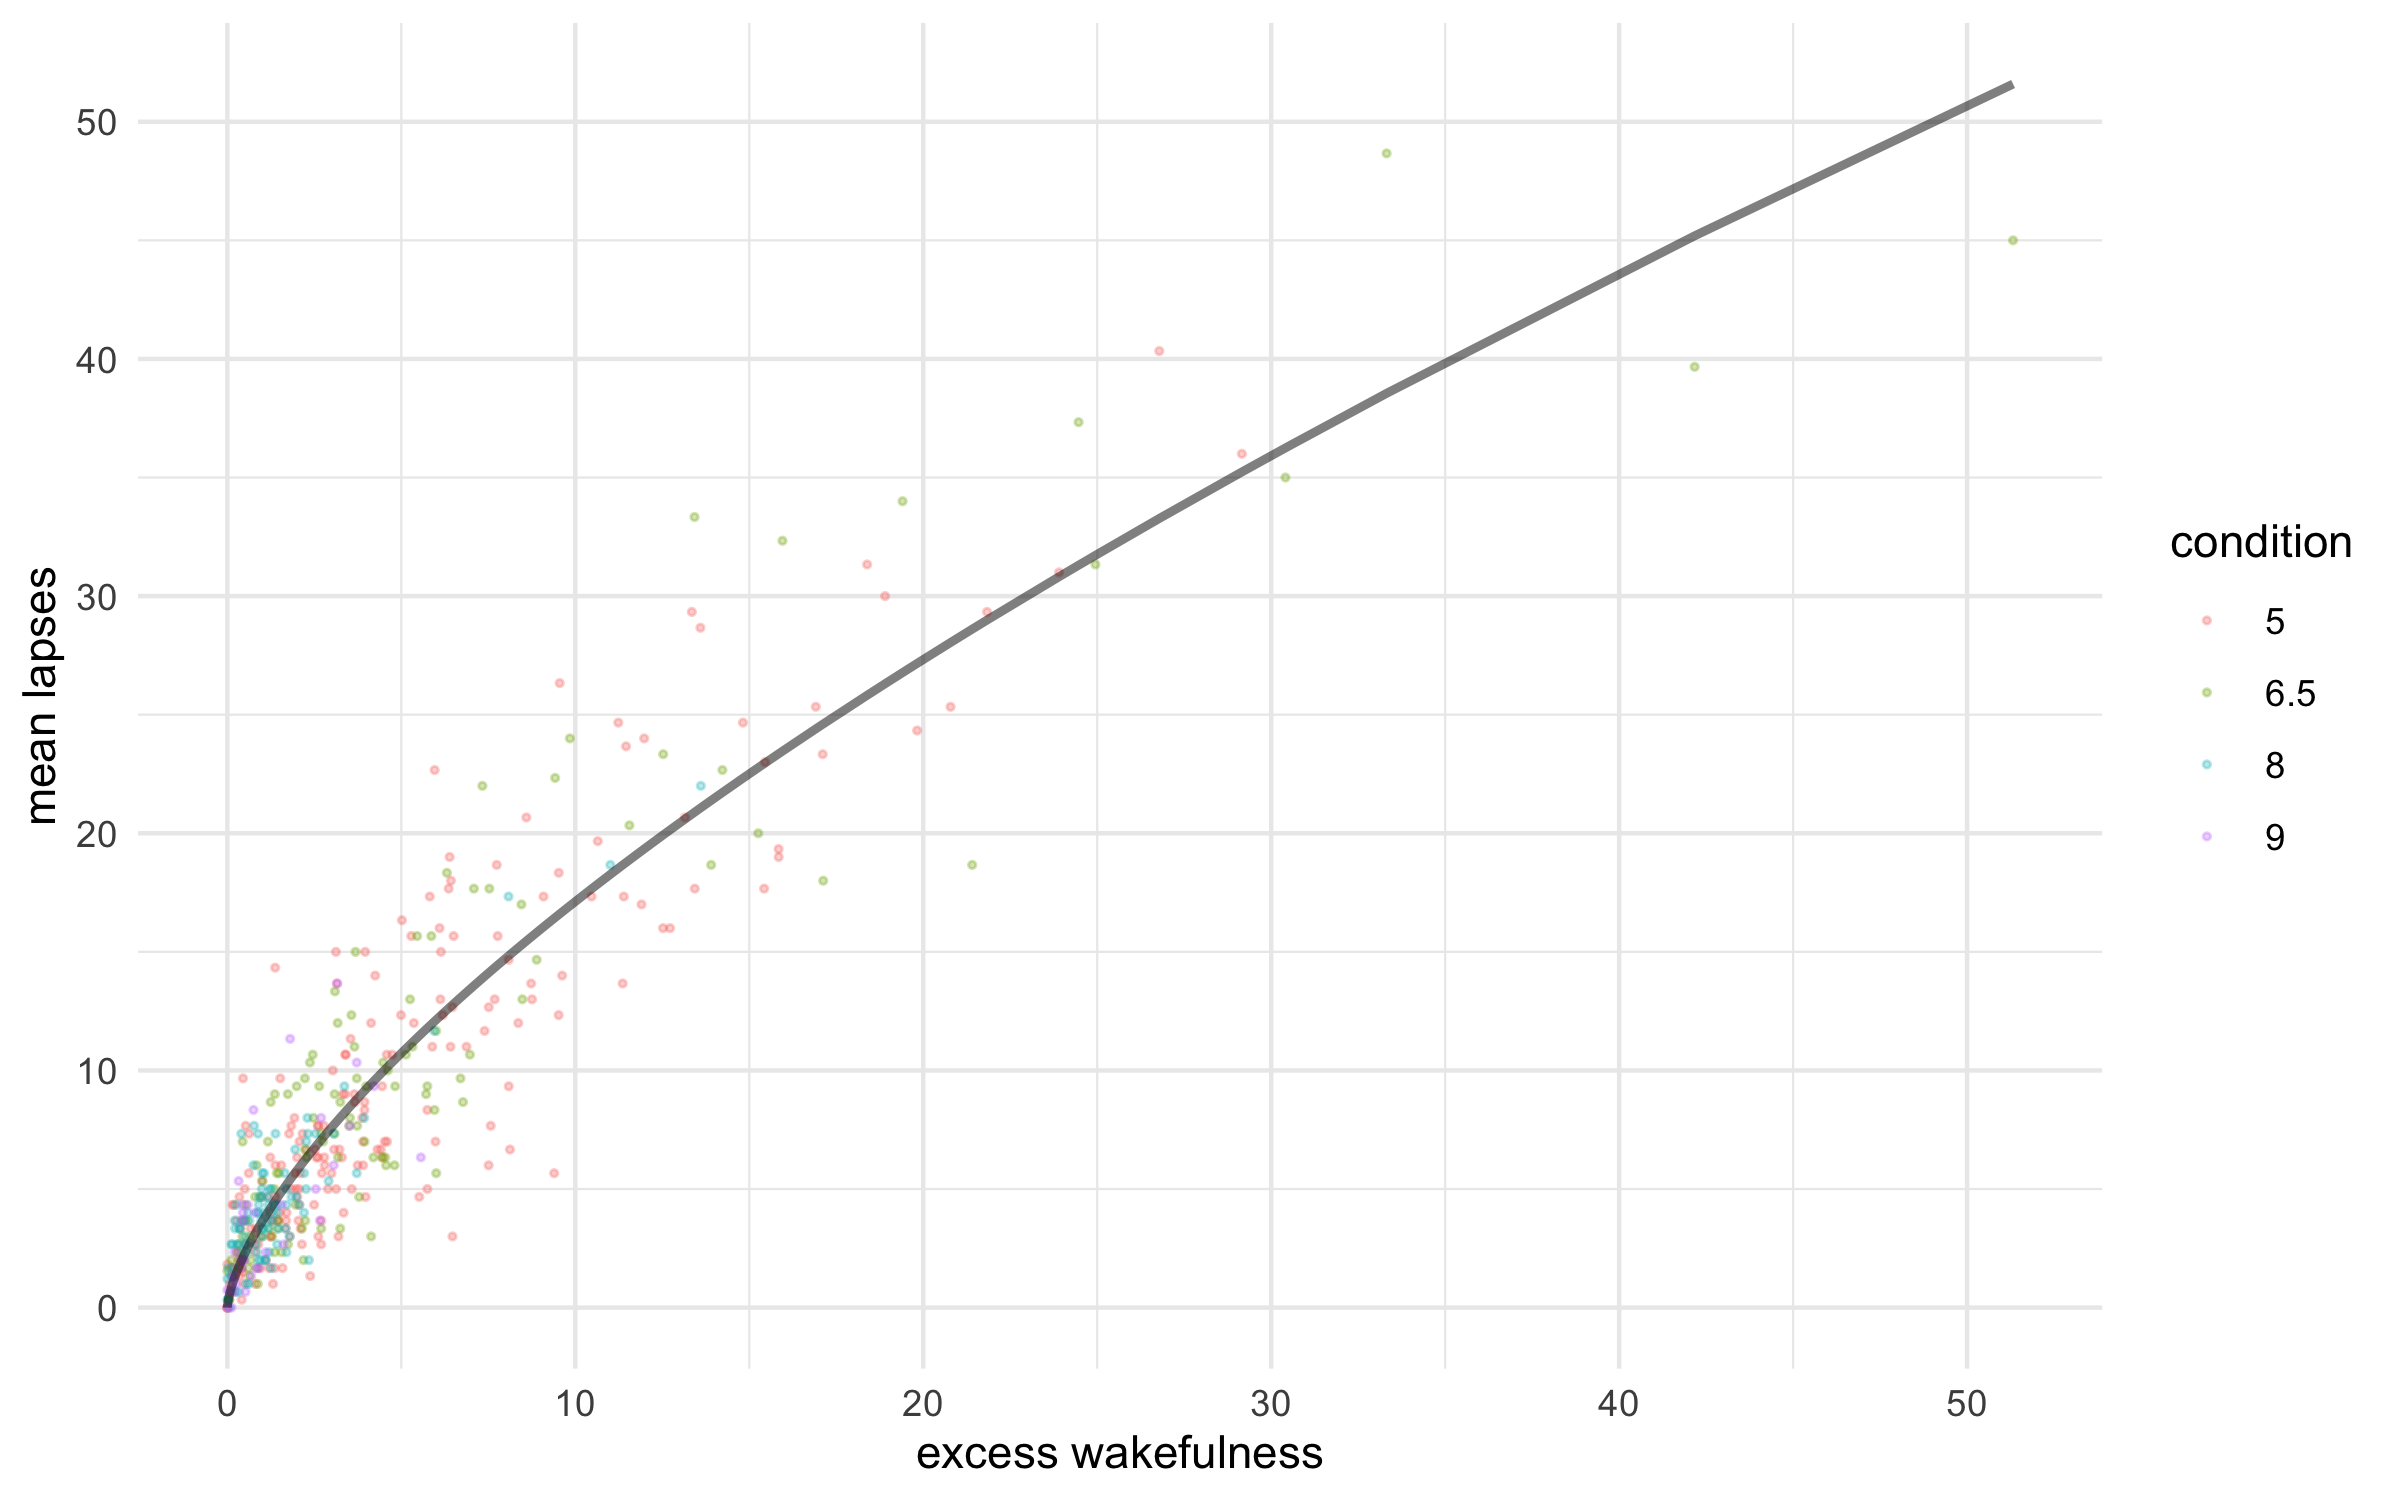
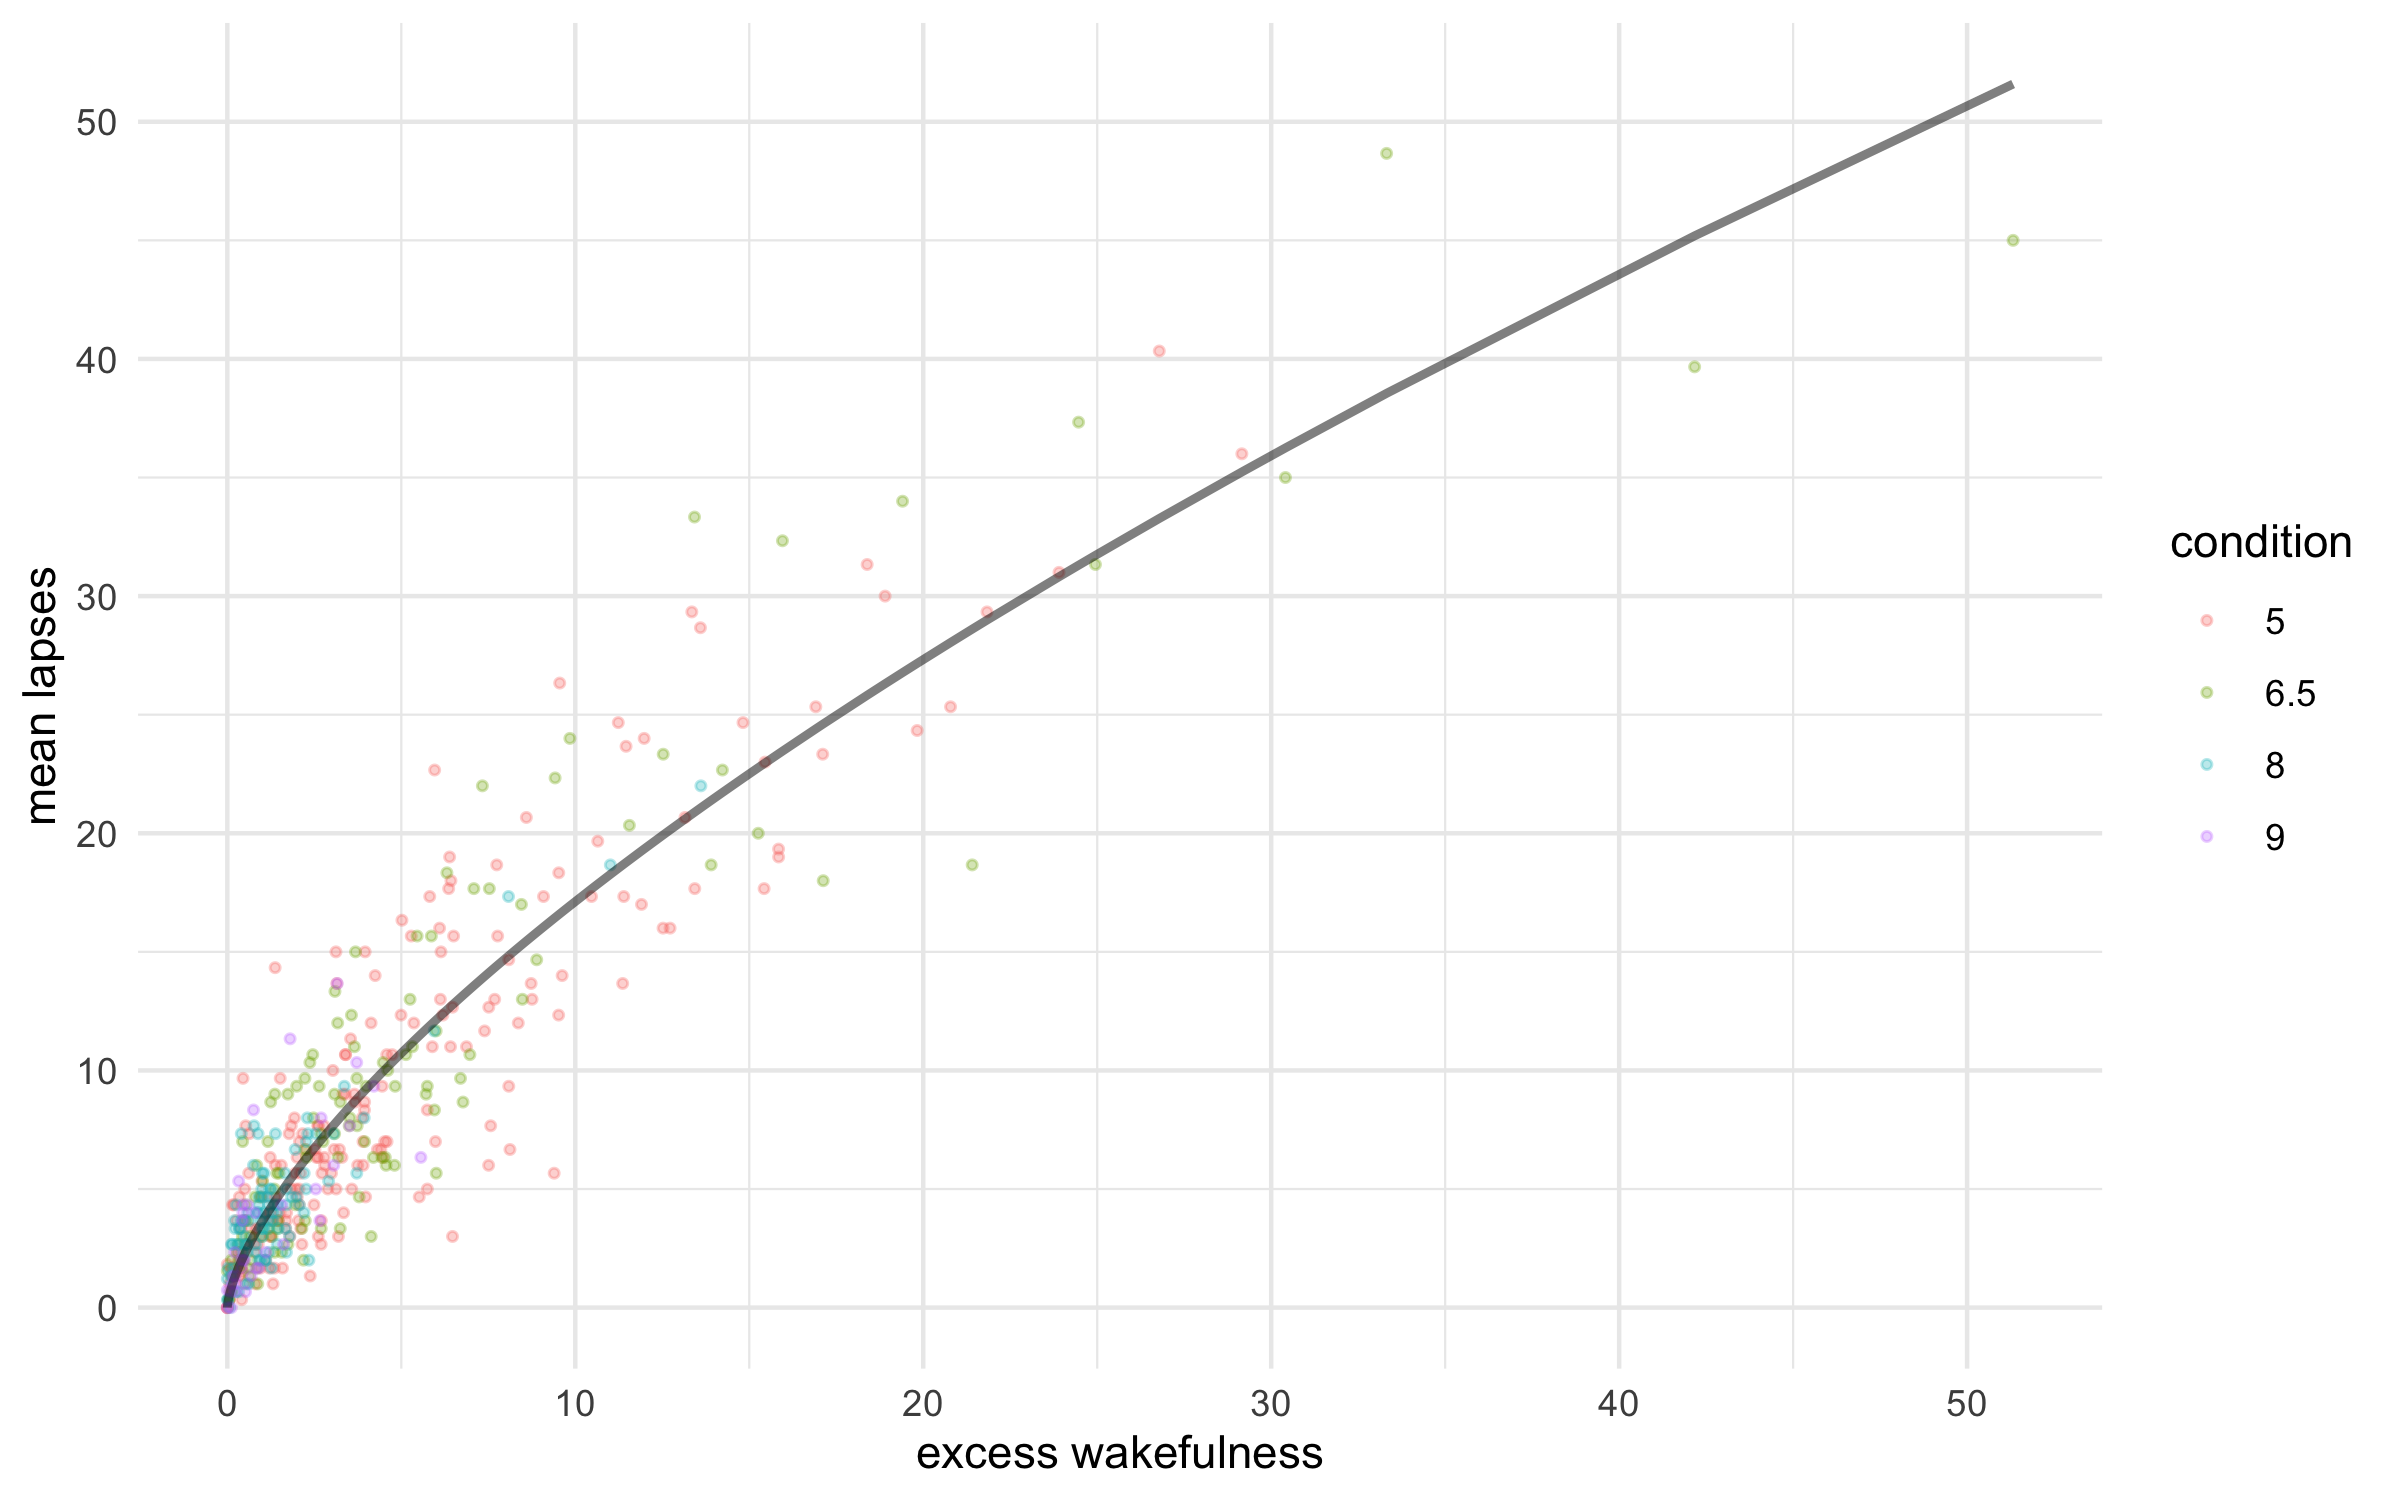
update point size in plot

Changed region(s): [[0.0938, 0.6747, 0.2188, 0.8893], [0.1875, 0.5827, 0.2188, 0.6133], [0.1562, 0.6133, 0.1875, 0.644]]

diff --git a/README.md b/README.md
@@ -392,7 +392,7 @@ intervals(TST.nonap.lapses)
 
 ### Histogram - Normality of distribution
 
-The plot indicates a left skew. Let’s check the histogram
+The plot indicates a left skew. I checked the histogram
 
 ![](README_files/figure-gfm/unnamed-chunk-18-1.png)<!-- -->
 
@@ -736,7 +736,7 @@ summary(sleep.nonap.lapses)
 
 ### Histogram - Normality of distribution
 
-The plot indicates a left skew. I check the histogram
+The plot indicates a left skew. I checked the histogram
 
 ![](README_files/figure-gfm/unnamed-chunk-41-1.png)<!-- -->
 
